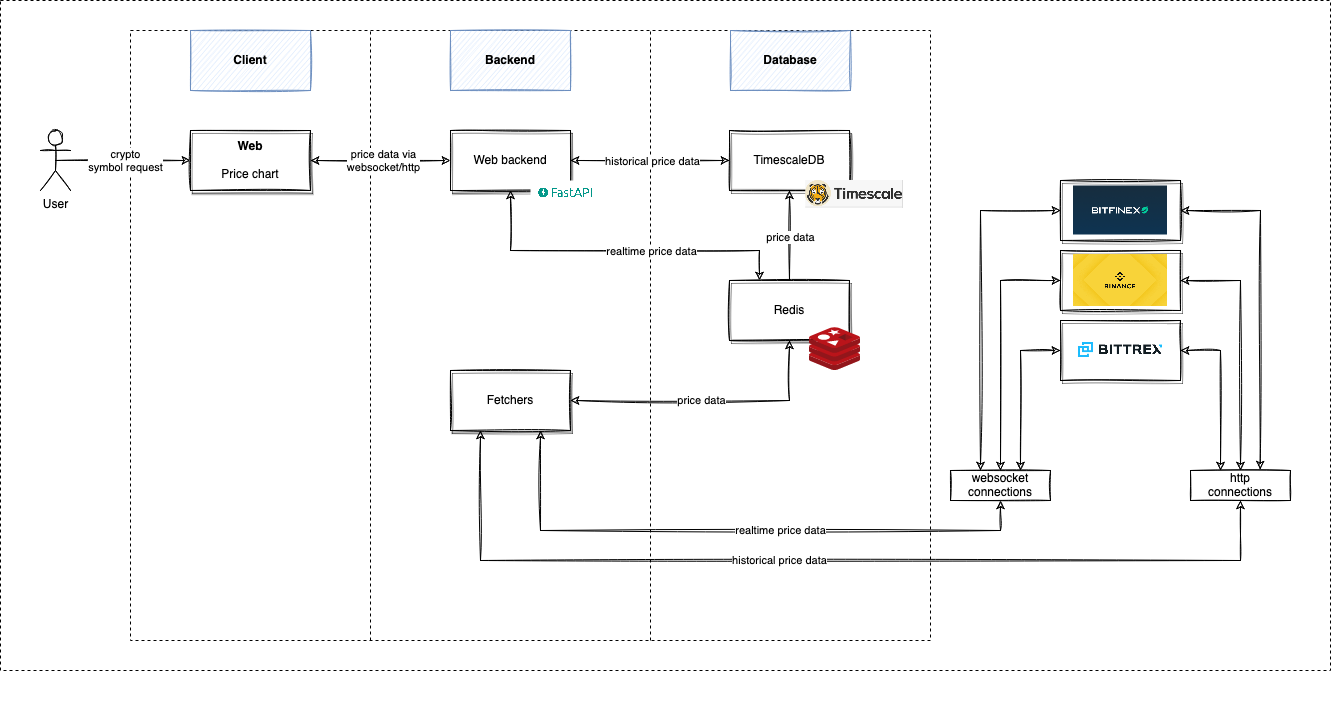
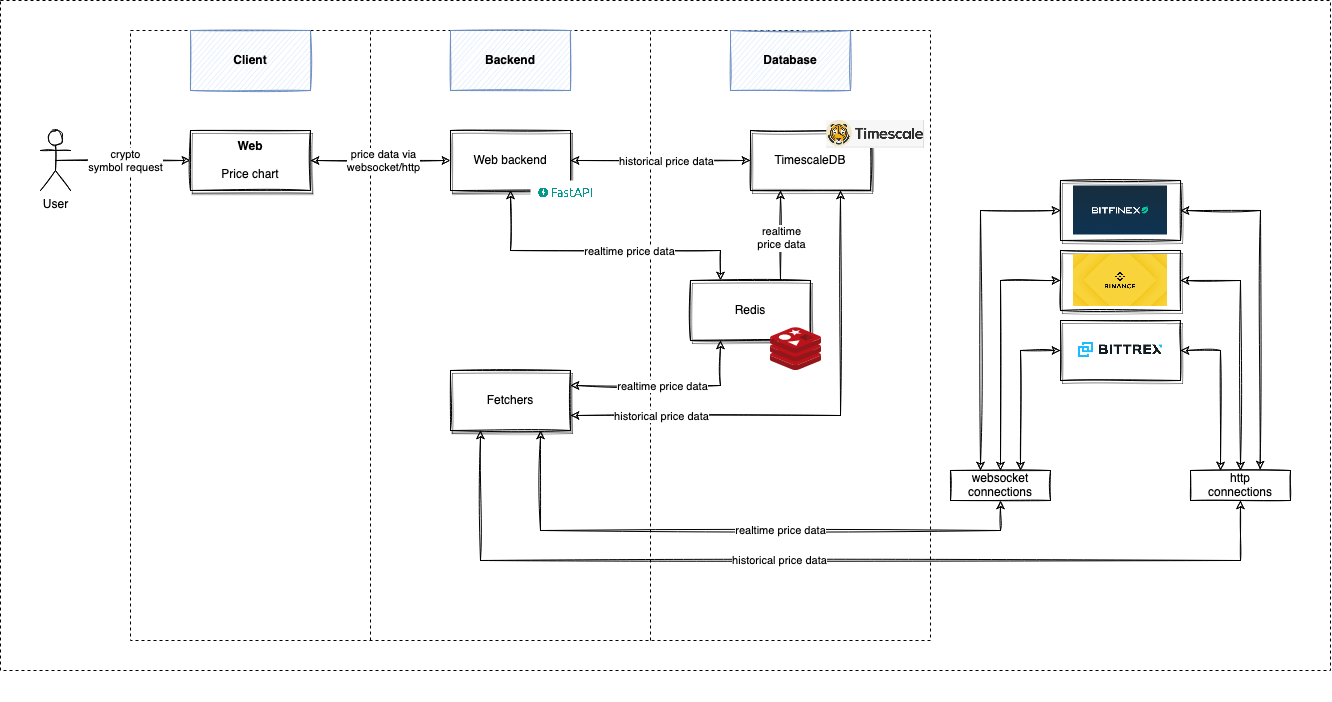
Update infrastructure diagram

diff --git a/README.md b/README.md
@@ -20,7 +20,7 @@ A standalone package to build a database of cryptocurrencies from three differen
 
 ![database](https://i.imgur.com/XBuHV5F.png)
 # Infrastructure Diagram <a name="infra"></a>
-![Infrastructure diagram](https://i.imgur.com/mcSloro.png)
+![Infrastructure diagram](https://i.imgur.com/43NNHNO.png)
 # Quick Start <a name="quickstart"></a>
 Before running, rename or create an `.env` file containing the variables similar to those of the `.example_env` file.
 ## Run with Docker Compose
